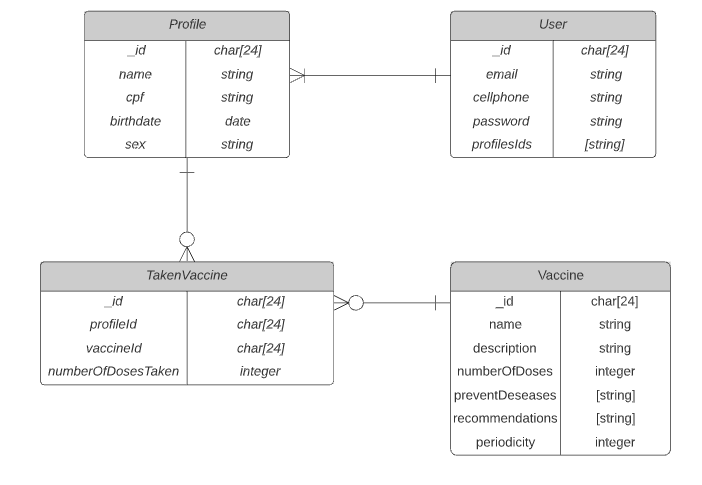
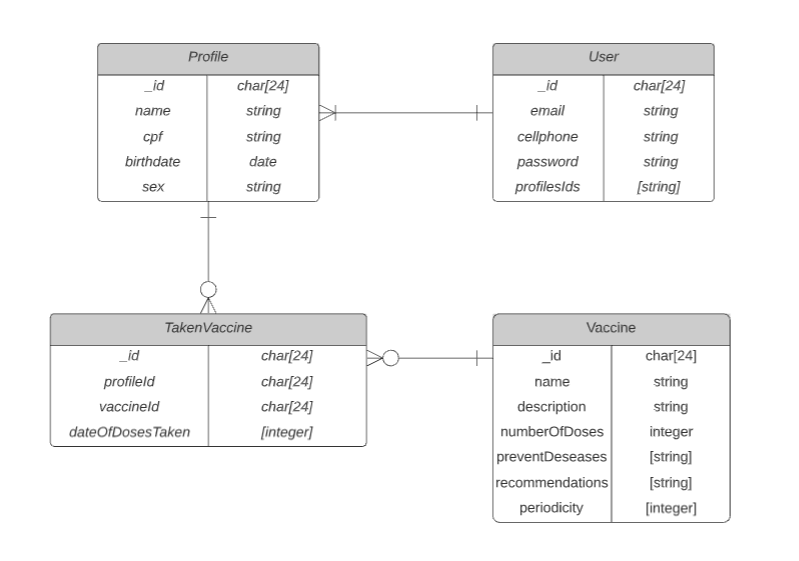
fix(#165): changed TakenVaccineSchema and its dependencies

Changed region(s): [[0.0598, 0.0, 0.9573, 0.9588]]

diff --git a/src/controllers/TakenVaccineController.js b/src/controllers/TakenVaccineController.js
@@ -21,7 +21,7 @@
 
  async function listTakenVaccines(request, response){
    try{
-     const listTaken = await TakenVaccine.find({}).populate('vaccineId',['name','_id','periodicity','numberOfDoses']);
+     const listTaken = await TakenVaccine.find({}).populate('vaccineId',['name','_id','periodicity','dateOfDoses']);
 
      return response.send({listTaken});
    }
@@ -54,14 +54,23 @@
   } 
 }
 
- async function updateTakenVaccine(request, response){
+ async function updateTakenVaccine(request, response) {
    try{ 
      const takenVaccineId = request.params.takenVaccineId;
+     const currentTakenVaccine = await TakenVaccine.findById(takenVaccineId);
+     const {newDate} = request.body;
+
+     if(!newDate)
+      return response.status(400).send({error: 'Wrong new date'});
      
-     if(!takenVaccineId)
+     if(!currentTakenVaccine)
       return response.status(400).send({error: 'Vaccine not found, check id again'});
+
+      const newDates = currentTakenVaccine.dateOfDosesTaken;
+      newDates.push(newDate);
+      const update = {dateOfDosesTaken: newDates};
     
-     const takenVaccine = await TakenVaccine.findByIdAndUpdate(takenVaccineId,request.body,{new:true});
+     const takenVaccine = await TakenVaccine.findByIdAndUpdate(takenVaccineId, update, {new:true});
     
      return response.send({takenVaccine});
    }catch(error){   

diff --git a/src/__tests__/TakenVaccineController.test.js b/src/__tests__/TakenVaccineController.test.js
@@ -35,6 +35,7 @@ let userId;
 let profileId;
 let vaccineId;
 let takenVaccineId;
+let dateOfDosesTaken;
 let token;
 
 describe('TakenVaccine Controller', () => {
@@ -64,8 +65,9 @@ describe('TakenVaccine Controller', () => {
     token = (await request.post('/auth/login').send({email:user.email, password:user.password})).body.token;
     const savedProfile = await request.post('/profile/'+userId).set('Authorization', 'Bearer '+token).send(profile);
     profileId = savedProfile.body.newProfile._id;
+    dateOfDosesTaken = new Date("December 17, 1995 03:24:00");
 
-    const body = {profileId: profileId, vaccineId: vaccineId, numberOfDosesTaken: 0};
+    const body = {profileId: profileId, vaccineId: vaccineId, dateOfDosesTaken: dateOfDosesTaken};
     
     const response = await request.post('/taken').send(body);
     takenVaccineId = response.body.takenVaccine._id;
@@ -85,7 +87,7 @@ describe('TakenVaccine Controller', () => {
   });
 
   it('should update taken vaccine', async() => {
-    const update = {numberOfDosesTaken: 1};
+    const update = {dateOfDosesTaken: new Date("December 17, 1995 03:24:00")};
     const response = await request.get('/taken/'+takenVaccineId).send(update);
     expect(response.status).toBe(200);
   });

diff --git a/src/controllers/ProfileController.js b/src/controllers/ProfileController.js
@@ -7,7 +7,7 @@ async function createProfile(request, response){
   try{
     
     const userId = request.params.userId; //get user
-    const currentUser=  await User.findById(userId);
+    const currentUser = await User.findById(userId);
     if(!currentUser) 
       return response.status(400).send({error: 'User not found. Check id again'});   
 
@@ -21,7 +21,7 @@ async function createProfile(request, response){
     profilesIds.push(newProfile.id);
 
     const update = {profilesIds: profilesIds};
-    const options = {new: true}
+    const options = {new: true};
     await User.findByIdAndUpdate(userId, update, options);
     
     return response.send({newProfile});

diff --git a/src/models/TakenVaccines.js b/src/models/TakenVaccines.js
@@ -14,12 +14,10 @@ const TakenVaccineSchema = new mongoose.Schema({
     required: true,
   },
 
-  numberOfDosesTaken:{
-    type: Number,
-    required: true
-  }
+  dateOfDosesTaken:[{
+    type: Date,
+  }]
  
-  
 });
 
 

diff --git a/docs/_sidebar.md b/docs/_sidebar.md
@@ -2,6 +2,7 @@
     - [Documento de Arquitetura](./wiki/documento_arquitetura.md)
     - [Documento de Visão](./wiki/documento_visao.md)
     - [Backlog](./wiki/backlog.md)
+    
 - Sprints planning
     - [Sprint 0](./wiki/Sprint0/documento_sprint0.md)
     - [Sprint 1](./wiki/Sprint1/documento_sprint1.md)
@@ -13,6 +14,9 @@
     - [Sprint 7](./wiki/Sprint7/documento_sprint7.md)
     - [Sprint 8](./wiki/Sprint8/documento_sprint8.md)
     - [Sprint 9](./wiki/Sprint9/documento_sprint9.md)
+    - [Sprint 10](./wiki/Sprint10/documento_sprint10.md)
+    - [Sprint 11](./wiki/Sprint11/documento_sprint11.md)
+    <!-- - [Sprint 12](./wiki/Sprint12/documento_sprint12.md) -->
 
 - Sprints review
     - [Sprint 0](./wiki/Sprint0/result_sprint0.md)
@@ -24,3 +28,7 @@
     - [Sprint 6](./wiki/Sprint6/result_sprint6.md)
     - [Sprint 7](./wiki/Sprint7/result_sprint7.md)
     - [Sprint 8](./wiki/Sprint8/result_sprint8.md)
+    - [Sprint 9](./wiki/Sprint9/result_sprint9.md)
+    - [Sprint 10](./wiki/Sprint10/result_sprint10.md)
+    - [Sprint 11](./wiki/Sprint11/result_sprint11.md)
+    <!-- - [Sprint 12](./wiki/Sprint12/result_sprint12.md) -->

diff --git a/docs/_navbar.md b/docs/_navbar.md
@@ -1,6 +1,7 @@
 - Documentação
     - [Documento de Arquitetura](./wiki/documento_arquitetura.md)
     - [Documento de Visão](./wiki/documento_visao.md)
+    - [Backlog](./wiki/backlog.md)
     
 - Sprints planning
     - [Sprint 0](./wiki/Sprint0/documento_sprint0.md)
@@ -13,6 +14,9 @@
     - [Sprint 7](./wiki/Sprint7/documento_sprint7.md)
     - [Sprint 8](./wiki/Sprint8/documento_sprint8.md)
     - [Sprint 9](./wiki/Sprint9/documento_sprint9.md)
+    - [Sprint 10](./wiki/Sprint10/documento_sprint10.md)
+    - [Sprint 11](./wiki/Sprint11/documento_sprint11.md)
+    <!-- - [Sprint 12](./wiki/Sprint12/documento_sprint12.md) -->
 
 - Sprints review
     - [Sprint 0](./wiki/Sprint0/result_sprint0.md)
@@ -24,3 +28,7 @@
     - [Sprint 6](./wiki/Sprint6/result_sprint6.md)
     - [Sprint 7](./wiki/Sprint7/result_sprint7.md)
     - [Sprint 8](./wiki/Sprint8/result_sprint8.md)
+    - [Sprint 9](./wiki/Sprint9/result_sprint9.md)
+    - [Sprint 10](./wiki/Sprint10/result_sprint10.md)
+    - [Sprint 11](./wiki/Sprint11/result_sprint11.md)
+    <!-- - [Sprint 12](./wiki/Sprint12/result_sprint12.md) -->
